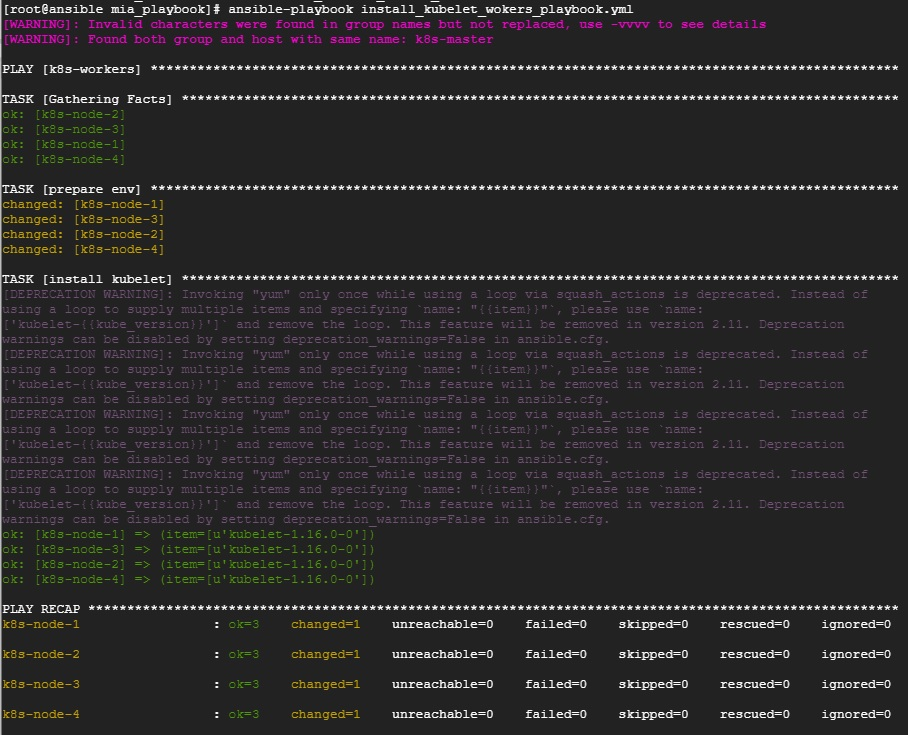
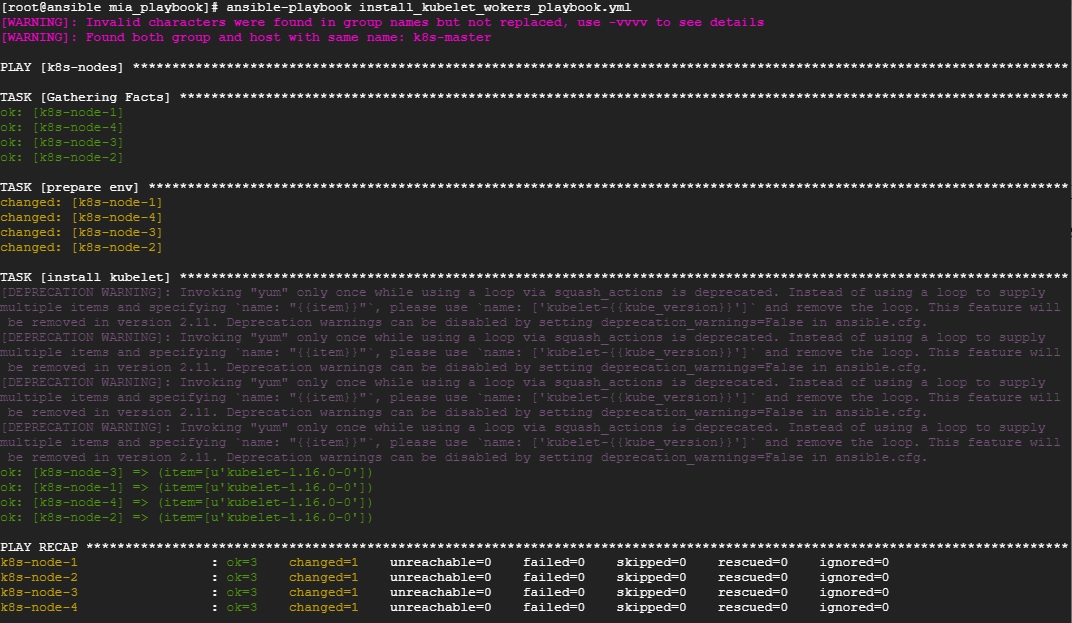
Updated work nodes group name

Changed region(s): [[0.0, 0.0, 1.0, 1.0]]

diff --git a/README.md b/README.md
@@ -104,7 +104,8 @@ In our project, Ansible playbooks are implemented to
   deploy_master_playbook.yml
   deploy_worker_playbook.yml
   install_docker_playbook.yml
-  install_kube_playbook.yml
+  install_kube_master_playbook.yml
+  install_kubelet_workers_playbook.yml
 ```
 
 ### 1. Upload playbooks to ansible server node
